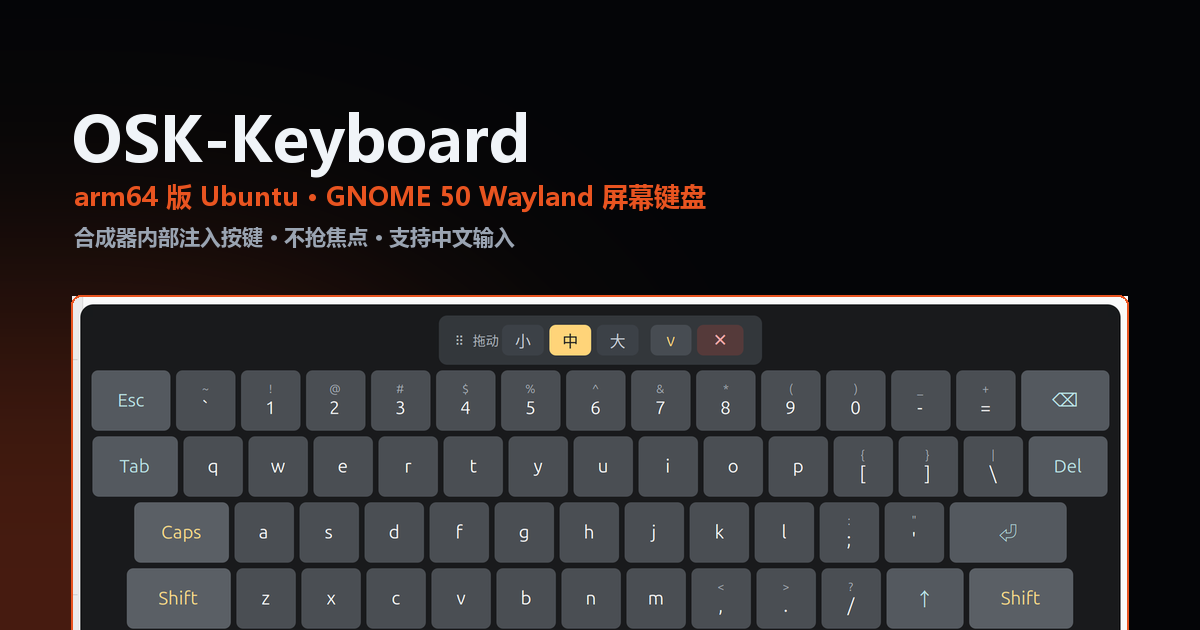
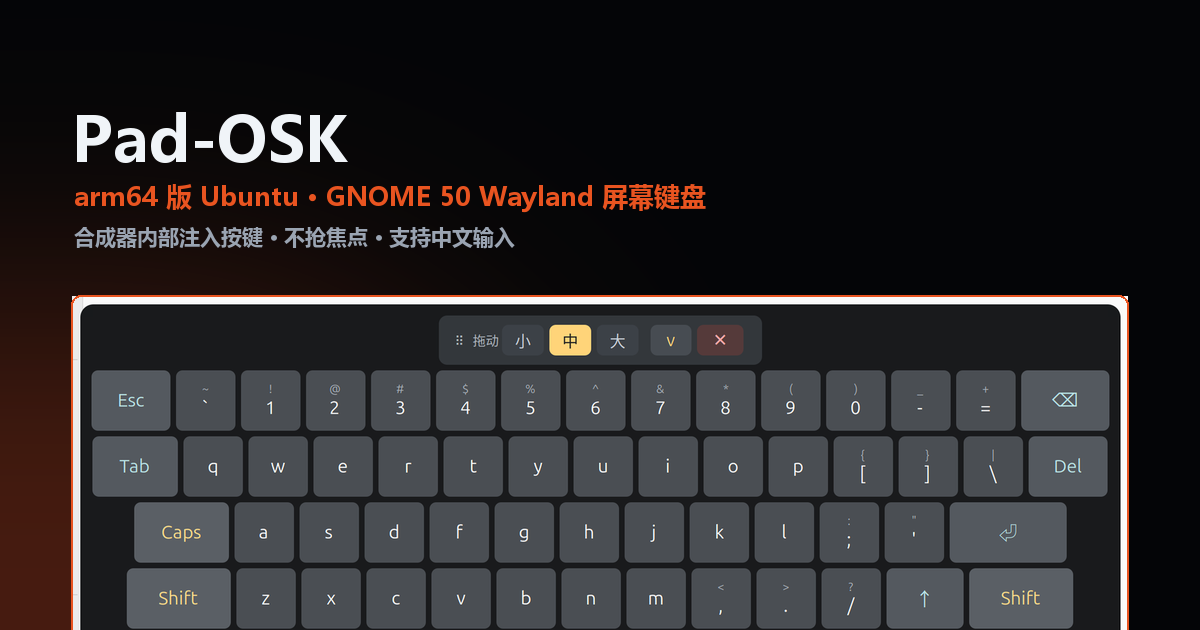
chore: drop the GitHub Pages workflow
The site is published on a separate server, so the Pages deploy job has nothing
to publish and only ever fails in Actions.

Changed region(s): [[0.0617, 0.181, 0.4625, 0.3016]]

diff --git a/docs/index.html b/docs/index.html
@@ -3,14 +3,14 @@
 <head>
 <meta charset="utf-8">
 <meta name="viewport" content="width=device-width, initial-scale=1">
-<title>PAD-OSK — arm64 版 Ubuntu 的屏幕键盘（GNOME 50 Wayland）</title>
-<meta name="description" content="PAD-OSK 是给 arm64 版 Ubuntu（GNOME 50 Wayland）用的屏幕键盘：按键在合成器内部通过 Clutter.VirtualInputDevice 注入，Electron / Chromium 应用照常收字；UI 是 shell 图层，永不抢焦点。支持中文输入与三档尺寸，任何 arm64 平板都能装。">
+<title>Pad-OSK — arm64 版 Ubuntu 的屏幕键盘（GNOME 50 Wayland）</title>
+<meta name="description" content="Pad-OSK 是给 arm64 版 Ubuntu（GNOME 50 Wayland）用的屏幕键盘：按键在合成器内部通过 Clutter.VirtualInputDevice 注入，Electron / Chromium 应用照常收字；UI 是 shell 图层，永不抢焦点。支持中文输入与三档尺寸，任何 arm64 平板都能装。">
 <meta name="theme-color" content="#0b0d10">
 <meta property="og:type" content="website">
-<meta property="og:title" content="PAD-OSK — 装进 Ubuntu 里的屏幕键盘">
+<meta property="og:title" content="Pad-OSK — 装进 Pad 上的 Ubuntu 屏幕键盘">
 <meta property="og:description" content="arm64 版 Ubuntu · GNOME 50 Wayland。合成器内注入按键、不抢焦点、支持中文输入，三档尺寸。">
 <meta property="og:url" content="https://mybailu.cn/osk/">
-<meta property="og:site_name" content="PAD-OSK">
+<meta property="og:site_name" content="Pad-OSK">
 <meta property="og:image" content="https://mybailu.cn/osk/assets/img/og-cover.png">
 <meta property="og:image:width" content="1200">
 <meta property="og:image:height" content="630">
@@ -21,8 +21,8 @@
 <link rel="apple-touch-icon" href="assets/img/apple-touch-icon.png">
 <link rel="stylesheet" href="assets/css/site.css">
 </head>
-<body data-title-zh="PAD-OSK — arm64 版 Ubuntu 的屏幕键盘（GNOME 50 Wayland）"
-      data-title-en="PAD-OSK — an on-screen keyboard for arm64 Ubuntu (GNOME 50 Wayland)">
+<body data-title-zh="Pad-OSK — arm64 版 Ubuntu 的屏幕键盘（GNOME 50 Wayland）"
+      data-title-en="Pad-OSK — an on-screen keyboard for arm64 Ubuntu (GNOME 50 Wayland)">
 
 <svg width="0" height="0" style="position:absolute" aria-hidden="true" focusable="false">
   <defs>
@@ -48,7 +48,7 @@
   <div class="wrap nav">
     <a class="brand" href="index.html">
       <img src="favicon.svg" alt="" width="26" height="26">
-      <span>PAD-OSK</span>
+      <span>Pad-OSK</span>
       <span class="brand-sub">arm64 Ubuntu</span>
     </a>
     <nav class="nav-links" aria-label="主导航">
@@ -76,13 +76,13 @@
     <div class="hero-grid">
       <div class="hero-copy">
         <span class="kicker"><i class="dot"></i><span data-en="arm64 tablets · GNOME 50 Wayland">arm64 平板通用 · GNOME 50 Wayland</span></span>
-        <h1 data-typewriter data-en-html="An on-screen keyboard <span class=&quot;hl&quot;>built into Ubuntu</span>">装进 Ubuntu 里的<br><span class="hl">屏幕键盘</span></h1>
-        <p class="lead" data-en="Put arm64 Ubuntu on a tablet and the touchscreen is only half useful: GNOME's own keyboard never appears in QQ or Chrome, and third-party keyboards cannot deliver a single character. PAD-OSK puts the keyboard inside GNOME Shell — keys are injected by the compositor, applications receive real keyboard events, and the keyboard itself never steals focus from the field you are typing in.">
-          arm64 版 Ubuntu 装在平板上，触屏只用得上一半：GNOME 自带的键盘在 QQ、Chrome 里弹不出来，第三方键盘又打不进字。PAD-OSK 把键盘做进 GNOME Shell —— 按键由合成器注入，应用收到的是真实键盘事件，而键盘本身永远不会抢走输入框的焦点。
+        <h1 data-typewriter data-en-html="An on-screen keyboard <span class=&quot;hl&quot;>for Ubuntu on your pad</span>">装进 Pad 上的<br><span class="hl">Ubuntu 屏幕键盘</span></h1>
+        <p class="lead" data-en="Put arm64 Ubuntu on a tablet and the touchscreen is only half useful: GNOME's own keyboard never appears in QQ or Chrome, and third-party keyboards cannot deliver a single character. Pad-OSK puts the keyboard inside GNOME Shell — keys are injected by the compositor, applications receive real keyboard events, and the keyboard itself never steals focus from the field you are typing in.">
+          arm64 版 Ubuntu 装在平板上，触屏只用得上一半：GNOME 自带的键盘在 QQ、Chrome 里弹不出来，第三方键盘又打不进字。Pad-OSK 把键盘做进 GNOME Shell —— 按键由合成器注入，应用收到的是真实键盘事件，而键盘本身永远不会抢走输入框的焦点。
         </p>
         <p class="hero-note">
           <svg aria-hidden="true"><use href="#i-warn"/></svg>
-          <span data-en-html="Requires <b>GNOME 50 + Wayland</b> on an <b>arm64</b> machine. The .deb is arm64 only — <b>there is no amd64 build yet</b>.">需要 <b>GNOME 50 + Wayland</b>，且机器是 <b>arm64</b>；目前只提供 arm64 的 .deb，<b>amd64 还没有构建</b>。</span>
+          <span data-en-html="Requires <b>GNOME 50 + Wayland</b> on an <b>arm64</b> machine. The .deb is arm64 only — <b>a DEMO is coming soon</b>; amd64 is not built yet.">需要 <b>GNOME 50 + Wayland</b>，且机器是 <b>arm64</b>；目前只提供 arm64 的 .deb，<b>DEMO 即将发布</b>，amd64 待构建。</span>
         </p>
         <div class="hero-cta">
           <a class="btn btn-primary" href="#download">
@@ -98,7 +98,7 @@
           <span class="chip"><b>GNOME Shell 50</b></span>
           <span class="chip"><b>arm64</b> · Wayland</span>
           <span class="chip">MIT License</span>
-          <span class="chip"><b>vDemo</b></span>
+          <span class="chip">Demo</span>
           <span class="chip"><b>13.7</b> KB</span>
         </div>
       </div>
@@ -273,7 +273,7 @@ vdev.notify_keyval(t, keysym, Clutter.KeyState.RELEASED);</code></pre>
         <article class="feature reveal"><span class="fi"><svg aria-hidden="true"><use href="#i-globe"/></svg></span><div><h3 data-en="Chinese / English">中 / 英切换</h3><p data-en="The 中/英 key sends Super+Space through GNOME's input-source switch; candidates work as usual in ibus-libpinyin.">右下角 中/英 键直发 Super+Space，走 GNOME 输入源切换；ibus-libpinyin 的候选词照常操作。</p></div></article>
         <article class="feature reveal"><span class="fi"><svg aria-hidden="true"><use href="#i-expand"/></svg></span><div><h3 data-en="Three sizes">三档尺寸</h3><p data-en="Small / medium / large at 55 %, 66 % and 76 % of the screen width, switched from the grip bar and remembered across logins.">小 / 中 / 大三档占屏宽 55 % / 66 % / 76 %，拖动条右侧一点即换，跨登录记忆。</p></div></article>
         <article class="feature reveal"><span class="fi"><svg aria-hidden="true"><use href="#i-move"/></svg></span><div><h3 data-en="Drag and collapse">可拖动 · 可收起</h3><p data-en="Hold the grip bar to move it, ⌄ collapses it to a thin strip, ✕ closes it. The position survives a reboot.">按住拖动条定位，⌄ 收起成细条，✕ 关闭；位置与档位重启后还在。</p></div></article>
-        <article class="feature reveal"><span class="fi"><svg aria-hidden="true"><use href="#i-toggle"/></svg></span><div><h3 data-en="Two entry points, one state">两个入口，一个状态</h3><p data-en="The Quick Settings switch and the PAD-OSK app icon share one state file, so the two never disagree.">Quick Settings 的「屏幕键盘」开关与应用抽屉里的 PAD-OSK 图标共用同一个状态文件，不会各说各话。</p></div></article>
+        <article class="feature reveal"><span class="fi"><svg aria-hidden="true"><use href="#i-toggle"/></svg></span><div><h3 data-en="Two entry points, one state">两个入口，一个状态</h3><p data-en="The Quick Settings switch and the Pad-OSK app icon share one state file, so the two never disagree.">Quick Settings 的「屏幕键盘」开关与应用抽屉里的 Pad-OSK 图标共用同一个状态文件，不会各说各话。</p></div></article>
         <article class="feature reveal"><span class="fi"><svg aria-hidden="true"><use href="#i-focus"/></svg></span><div><h3 data-en="Never steals focus">不抢焦点</h3><p data-en="The UI is a shell layer, so tapping a key does not move the caret out of the field you were typing in.">UI 是 shell 图层而不是窗口，点键盘不会把光标从输入框里赶走。</p></div></article>
         <article class="feature reveal"><span class="fi"><svg aria-hidden="true"><use href="#i-window"/></svg></span><div><h3 data-en="Steps aside for dialogs">关机对话框自动让开</h3><p data-en="When the shutdown / restart / logout dialog appears the keyboard hides, and comes back when the dialog closes.">关机、重启、注销对话框出现时键盘自动隐藏，关闭后恢复，不会挡住按钮。</p></div></article>
         <article class="feature reveal"><span class="fi"><svg aria-hidden="true"><use href="#i-save"/></svg></span><div><h3 data-en="Remembers your setup">配置持久化</h3><p data-en="Position, visibility and size step are written to ~/.config/erhai-osk/position.kf and survive uninstall.">位置、开关状态、尺寸档位写在 <code>~/.config/erhai-osk/position.kf</code>，卸载也会保留。</p></div></article>
@@ -341,7 +341,7 @@ sudo apt install ./pad-osk_0.Demo_arm64.deb</code></pre>
             <h3 data-en="After the reboot">重启之后</h3>
             <ul class="list">
               <li><svg aria-hidden="true"><use href="#i-check"/></svg><span data-en="Quick Settings (top right) → “Screen Keyboard” switch">右上角系统菜单 → <strong>屏幕键盘</strong> 开关</span></li>
-              <li><svg aria-hidden="true"><use href="#i-check"/></svg><span data-en="Application grid → PAD-OSK icon">应用抽屉 → <strong>PAD-OSK</strong> 图标</span></li>
+              <li><svg aria-hidden="true"><use href="#i-check"/></svg><span data-en="Application grid → Pad-OSK icon">应用抽屉 → <strong>Pad-OSK</strong> 图标</span></li>
               <li><svg aria-hidden="true"><use href="#i-check"/></svg><span data-en="Grip bar: drag to move, ⌄ to collapse, 小/中/大 to resize">拖动条：<strong>⠿ 拖动</strong> 定位、<strong>⌄</strong> 收起、<strong>小/中/大</strong> 换档</span></li>
             </ul>
           </div>
@@ -458,7 +458,7 @@ sudo apt install ./pad-osk_0.Demo_arm64.deb</code></pre>
       <div class="footer-about">
         <a class="brand" href="index.html">
           <img src="favicon.svg" alt="" width="26" height="26">
-          <span>PAD-OSK</span>
+          <span>Pad-OSK</span>
         </a>
         <p data-en="A GNOME Shell on-screen keyboard for arm64 Ubuntu. Keys injected inside the compositor; focus never stolen; Chinese input included.">
           给 arm64 版 Ubuntu 的 GNOME 屏幕键盘。合成器内注入按键，不抢焦点，支持中文输入。

diff --git a/docs/tech.html b/docs/tech.html
@@ -3,14 +3,14 @@
 <head>
 <meta charset="utf-8">
 <meta name="viewport" content="width=device-width, initial-scale=1">
-<title>技术方案 — 为什么只能是 GNOME Shell 扩展 | PAD-OSK</title>
+<title>技术方案 — 为什么只能是 GNOME Shell 扩展 | Pad-OSK</title>
 <meta name="description" content="GNOME Wayland 下的屏幕键盘为什么必须做成 shell 扩展：十一条失败路线、Clutter.VirtualInputDevice 注入原理、中文输入经过 XIM 的路径、三档尺寸的就地重排实现与已知限制。">
 <meta name="theme-color" content="#0b0d10">
 <meta property="og:type" content="article">
 <meta property="og:title" content="技术方案 — 为什么只能是 GNOME Shell 扩展">
 <meta property="og:description" content="十一条死路、一条活路：合成器内注入按键，不抢焦点。">
 <meta property="og:url" content="https://mybailu.cn/osk/tech.html">
-<meta property="og:site_name" content="PAD-OSK">
+<meta property="og:site_name" content="Pad-OSK">
 <meta property="og:image" content="https://mybailu.cn/osk/assets/img/og-cover.png">
 <meta property="og:image:width" content="1200">
 <meta property="og:image:height" content="630">
@@ -20,8 +20,8 @@
 <link rel="apple-touch-icon" href="assets/img/apple-touch-icon.png">
 <link rel="stylesheet" href="assets/css/site.css">
 </head>
-<body data-title-zh="技术方案 — 为什么只能是 GNOME Shell 扩展 | PAD-OSK"
-      data-title-en="Technical notes — why it has to be a GNOME Shell extension | PAD-OSK">
+<body data-title-zh="技术方案 — 为什么只能是 GNOME Shell 扩展 | Pad-OSK"
+      data-title-en="Technical notes — why it has to be a GNOME Shell extension | Pad-OSK">
 
 <svg width="0" height="0" style="position:absolute" aria-hidden="true" focusable="false">
   <defs>
@@ -38,7 +38,7 @@
   <div class="wrap nav">
     <a class="brand" href="index.html">
       <img src="favicon.svg" alt="" width="26" height="26">
-      <span>PAD-OSK</span>
+      <span>Pad-OSK</span>
       <span class="brand-sub">arm64 Ubuntu</span>
     </a>
     <nav class="nav-links" aria-label="主导航">
@@ -396,7 +396,7 @@ sh packaging/build-deb.sh
       <div class="footer-about">
         <a class="brand" href="index.html">
           <img src="favicon.svg" alt="" width="26" height="26">
-          <span>PAD-OSK</span>
+          <span>Pad-OSK</span>
         </a>
         <p data-en="A GNOME Shell on-screen keyboard for arm64 Ubuntu. Keys injected inside the compositor; focus never stolen; Chinese input included.">
           给 arm64 版 Ubuntu 的 GNOME 屏幕键盘。合成器内注入按键，不抢焦点，支持中文输入。

diff --git a/WEBSITE.md b/WEBSITE.md
@@ -1,6 +1,6 @@
 # 项目网站
 
-`docs/` 目录现在同时是 **文档目录** 和 **静态站点根目录**，可以直接被 GitHub Pages / Gitee Pages 发布。
+`docs/` 目录是纯静态站点，可直接拷到任意 Web 服务器发布（不依赖 GitHub/Gitee Pages，也不需要 CI）。
 
 - 首页：`docs/index.html` —— 定位、三档尺寸交互对比、特性、安装、下载
 - 技术页：`docs/tech.html` —— 十一条死路、工作原理图、中文输入三条通道、踩坑、兼容性
@@ -20,35 +20,6 @@
 python3 -m http.server 8080 -d docs
 # 打开 http://localhost:8080/
 ```
-
-## GitHub Pages
-
-**方式 A：仓库设置（最省事）**
-
-Settings → Pages → Source: *Deploy from a branch* → Branch: `master`，Folder: `/docs` → Save。
-之后访问 `https://<用户名>.github.io/ubuntu-pad-keyboard/`。
-
-**方式 B：Actions（已随仓库提供）**
-
-`.github/workflows/pages.yml` 会在推送 `docs/` 变更时自动发布。用这条要先在
-Settings → Pages → Source 选 *GitHub Actions*。
-
-两种方式二选一，不要同时开。
-
-## Gitee Pages
-
-Gitee Pages 免费版只能选「分支」，不能选子目录，所以 `docs/` 里的站点需要位于某个分支的根：
-
-```bash
-# 把 docs/ 的内容推到 pages 分支（在仓库根执行）
-git subtree push --prefix docs origin pages
-```
-
-然后 服务 → Gitee Pages → 部署分支选 `pages`。（若已开通 Pages Pro，也可以直接部署
-`master` 分支的 `docs/` 目录。）
-
-用 `git subtree push` 前如果 `pages` 分支还不存在，先建一个空分支：
-`git push origin master:pages`。GitHub 镜像侧不需要重复这一套，`pages.yml` 已经处理好。
 
 ## 改内容
 
